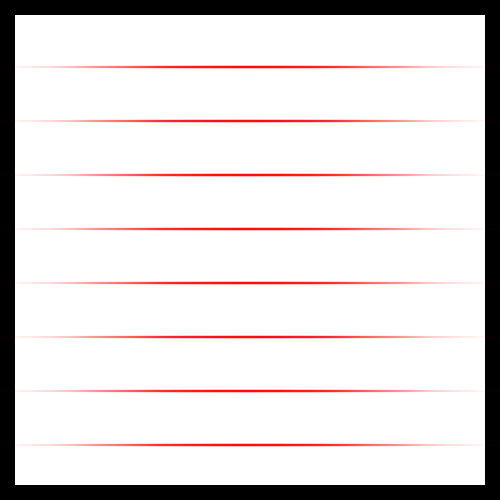
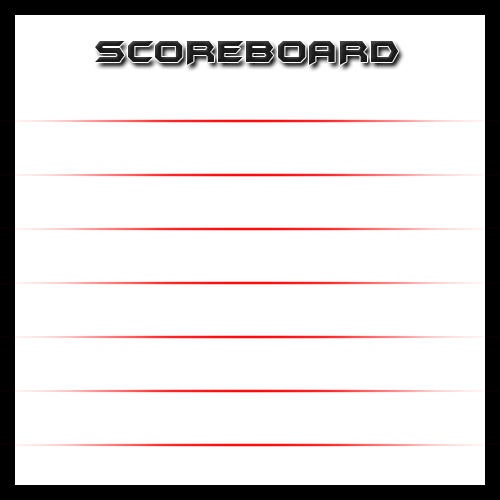
update

Changed region(s): [[0.06, 0.06, 0.9, 0.15]]

diff --git a/Project/FYP/FYP/HUD.cpp b/Project/FYP/FYP/HUD.cpp
@@ -28,10 +28,12 @@ HUD::HUD()
 		m_scoreRectangle.setTexture(&m_scoreBoardTexture);
 		m_scoreRectangle.setPosition(sf::Vector2f(400, 100));
 
-		player1.setPosition(sf::Vector2f(m_scoreRectangle.getPosition().x + 50, m_scoreRectangle.getPosition().y + 50));
+		player0.setPosition(sf::Vector2f(m_scoreRectangle.getPosition().x + 120, m_scoreRectangle.getPosition().y + 80));
+		player1.setPosition(sf::Vector2f(player0.getPosition().x, player0.getPosition().y + 50));
 		player2.setPosition(sf::Vector2f(player1.getPosition().x, player1.getPosition().y + 50));
 		player3.setPosition(sf::Vector2f(player2.getPosition().x, player2.getPosition().y + 50));
 
+		player0.setFont(font);
 		player1.setFont(font);
 		player2.setFont(font);
 		player3.setFont(font);
@@ -220,49 +222,52 @@ void HUD::SetEnergy(int energyAmount)
 	m_energyBarRectangle.setTextureRect(sf::IntRect(m_energyBarRectangle.getPosition().x, m_energyBarRectangle.getPosition().y, (3.3 * energyAmount), 12));
 }
 
-void HUD::SetScore(vector<pair<string, int>> players)
+void HUD::SetScore(vector<pair<string, int>> players, string playerID, int playerScore)
 {
+
+	player0.setString(playerID + " - " + to_string(playerScore));
+
 	for (int i = 0; i < players.size(); i++)
 	{
 		//Populate first box
 		if (i == 0)
 		{
-			player1.setString(players.at(i).first + " + " + to_string(players.at(i).second));
+			player1.setString(players.at(i).first + " - " + to_string(players.at(i).second));
 		}
 
 		if (i == 1)
 		{
-			player2.setString(players.at(i).first + " + " + to_string(players.at(i).second));
+			player2.setString(players.at(i).first + " - " + to_string(players.at(i).second));
 		}
 
 		if (i == 2)
 		{
-			player3.setString(players.at(i).first + " + " + to_string(players.at(i).second));
+			player3.setString(players.at(i).first + " - " + to_string(players.at(i).second));
 		}
 
 		if (i == 3)
 		{
-			player4.setString(players.at(i).first + " + " + to_string(players.at(i).second));
+			player4.setString(players.at(i).first + " - " + to_string(players.at(i).second));
 		}
 
 		if (i == 4)
 		{
-			player5.setString(players.at(i).first + " + " + to_string(players.at(i).second));
+			player5.setString(players.at(i).first + " - " + to_string(players.at(i).second));
 		}
 
 		if (i == 5)
 		{
-			player6.setString(players.at(i).first + " + " + to_string(players.at(i).second));
+			player6.setString(players.at(i).first + " - " + to_string(players.at(i).second));
 		}
 
 		if (i == 6)
 		{
-			player7.setString(players.at(i).first + " + " + to_string(players.at(i).second));
+			player7.setString(players.at(i).first + " - " + to_string(players.at(i).second));
 		}
 
 		if (i == 7)
 		{
-			player8.setString(players.at(i).first + " + " + to_string(players.at(i).second));
+			player8.setString(players.at(i).first + " - " + to_string(players.at(i).second));
 		}
 	}
 }
@@ -280,6 +285,11 @@ void HUD::Draw(sf::RenderWindow &window)
 	if (showScore)
 	{
 		window.draw(m_scoreRectangle);
+		if (player0.getString().getSize() > 0)
+		{
+			window.draw(player0);
+		}
+
 		if (player1.getString().getSize() > 0)
 		{
 			window.draw(player1);

diff --git a/Project/FYP/FYP/Netcode.cpp b/Project/FYP/FYP/Netcode.cpp
@@ -242,7 +242,7 @@ void Netcode::ReceivePacket()
 					cout << "Added new client " << playerIP << " : " << playerID << " Ready = " << ready << endl;
 					clients.GetVector().at(clients.FindWhatNumberClientsWhoSentReadyIs(playerIP))->SetReady(ready);
 					AddClientData(playerID);
-					pm.AddNewPlayer(playerIP);
+					pm.AddNewPlayer(playerIP, playerID);
 				}
 				break;
 			}
@@ -367,6 +367,7 @@ void Netcode::ReceivePacket()
 				{
 					m_score++;
 					cout << "INCREASED MY SCORE TO " << m_score << endl;
+					m_updateScores = true;
 				}
 
 				else
@@ -379,6 +380,7 @@ void Netcode::ReceivePacket()
 							cout << "Found player.." << endl;
 							pm.GetPlayers().at(i)->IncreaseScore();
 							cout << "INCREASED SCORE TO " << pm.GetPlayers().at(i)->GetScore() << endl;
+							m_updateScores = true;
 							break;
 						}
 					}
@@ -456,7 +458,7 @@ vector<pair<string, int>> Netcode::GetScores()
 	for (int i = 0; i < pm.GetPlayers().size(); i++)
 	{
 		pair<string, int> pairResult;
-		pairResult.first = pm.GetPlayers().at(i)->GetPlayerID();
+		pairResult.first = pm.GetPlayers().at(i)->GetName();
 		pairResult.second = pm.GetPlayers().at(i)->GetScore();
 		result.push_back(pairResult);
 	}

diff --git a/Project/FYP/FYP/Game.cpp b/Project/FYP/FYP/Game.cpp
@@ -173,7 +173,7 @@ int main()
 			if (!hud.initScoreBoard)
 			{
 				vector<pair<string, int>> result = netcode.GetScores();
-				hud.SetScore(result);
+				hud.SetScore(result, player.GetName(), player.GetScore());
 				hud.initScoreBoard = true;
 			}
 
@@ -3734,7 +3734,15 @@ int main()
 
 #pragma endregion Colllisions in Room 9
 
-			//Check which killing spree sound effect to play
+			//Check to update the scores
+			if (netcode.UpdateScore())
+			{
+				player.SetScore(netcode.GetScore());
+				vector<pair<string, int>> result = netcode.GetScores();
+				hud.SetScore(result, player.GetName(), player.GetScore());
+				netcode.SetUpdateScore(false);
+				cout << "Updated Scores!!" << endl;
+			}
 
 			//If true then play the sound for the amount of kills the player had.
 			if (player.CheckKillSoundEffect())
@@ -3792,6 +3800,12 @@ int main()
 			{
 				netcode.SendPlayersPosition(player.GetPosition(), player.GetDirection());
 				player.SetMovingFalse();
+			}
+
+			if (player.IsRespawned())
+			{
+				hud.SetHealth(player.GetHealth());
+				player.SetRespawned(false);
 			}
 
 			hud.countDown = player.GetTrapCoolDown();

diff --git a/Project/FYP/FYP/Player.h b/Project/FYP/FYP/Player.h
@@ -79,7 +79,10 @@ public:
 	sf::Vector2f Respawn();
 	int randomRoomNumber = 0;
 	bool UpdatePlayerRoom = false;
-	
+	void SetScore(int num) { m_score = num; }
+	int GetScore() { return m_score; }
+	bool IsRespawned() { return m_respawned; }
+	void SetRespawned(bool state) { m_respawned = state; }
 	bool DOUBLE_ENERGY, FAST_MOVEMENT, EXTRA_LIFE;
 
 
@@ -98,7 +101,9 @@ private:
 	int m_killingSpree;
 	int m_deathsWithoutKill;
 	int trapCoolDown;
+	int m_score = 0;
 	bool countDownTrap;
+	bool m_respawned = false;
 	int m_currentRoom = 0;
 	sf::Sprite m_spr;
 	sf::RectangleShape m_rect;

diff --git a/Project/FYP/FYP/HUD.h b/Project/FYP/FYP/HUD.h
@@ -14,7 +14,7 @@ public:
 	void SetEnergy(int enermyNumber);
 	bool countDown = false;
 	bool showScore = false;
-	void SetScore(vector<pair<string, int>> players);
+	void SetScore(vector<pair<string, int>> players, string playerID, int playerScore);
 	bool initScoreBoard = false;
 
 private:
@@ -49,5 +49,5 @@ private:
 	sf::RectangleShape m_scoreRectangle;
 
 	sf::Font font;
-	sf::Text player1, player2, player3, player4, player5, player6, player7, player8;
+	sf::Text player0, player1, player2, player3, player4, player5, player6, player7, player8;
 };

diff --git a/Project/FYP/FYP/MultiPlayer.h b/Project/FYP/FYP/MultiPlayer.h
@@ -80,7 +80,9 @@ public:
 	void IncreaseDeathCount() { m_deathsWithoutKill++; cout << "Death total = " << m_deathsWithoutKill; }
 	bool CreateAKBullet();
 	string GetPlayerID() { return m_PlayerID; }
+	string GetPlayerName() { return m_Name; }
 	void SetPlayerID(string ID) { m_PlayerID = ID; }
+	void SetName(string name) { m_Name = name; }
 	int GetRoom() { return m_currentRoom; }
 	void SetRoom(int roomNum) { m_currentRoom = roomNum; }
 	void SetDirection(int direction) { m_dir = direction; }

diff --git a/Project/FYP/FYP/Netcode.h b/Project/FYP/FYP/Netcode.h
@@ -45,6 +45,8 @@ public:
 	void SendRoomUpdate(int room);
 	void SendKillConfirmed(string ip);
 	int GetScore() { return m_score; }
+	bool UpdateScore() { return m_updateScores; }
+	void SetUpdateScore(bool state) { m_updateScores = state; }
 
 	vector<pair<string, int>> GetScores();
 
@@ -79,5 +81,6 @@ private:
 	Clients clients = Clients();
 	bool m_playerReady = false;
 	bool m_everyoneReady = false;
+	bool m_updateScores = false;
 };
 

diff --git a/Project/FYP/FYP/PlayerManager.cpp b/Project/FYP/FYP/PlayerManager.cpp
@@ -8,10 +8,11 @@ PlayerManager::~PlayerManager()
 {
 }
 
-void PlayerManager::AddNewPlayer(string id)
+void PlayerManager::AddNewPlayer(string id, string name)
 {
 	m_Players.push_back(new MultiPlayer());
 	m_Players.at((m_Players.size() - 1))->SetPlayerID(id);
+	m_Players.at((m_Players.size() - 1))->SetName(name);
 	cout << "Added new multi player, IP = " << id << endl;
 }
 

diff --git a/Project/FYP/FYP/PlayerManager.h b/Project/FYP/FYP/PlayerManager.h
@@ -20,7 +20,7 @@ public:
 	void Draw9(sf::RenderWindow &window);
 	void Update(sf::Time time);
 	void SetPlayersPosition(string playerID, sf::Vector2f position);
-	void AddNewPlayer(string playerID);
+	void AddNewPlayer(string playerID, string name);
 	MultiPlayer* FindWhichPlayerToUpdate(string playerIP);
 	vector<MultiPlayer*> GetPlayers() { return m_Players; }
 
